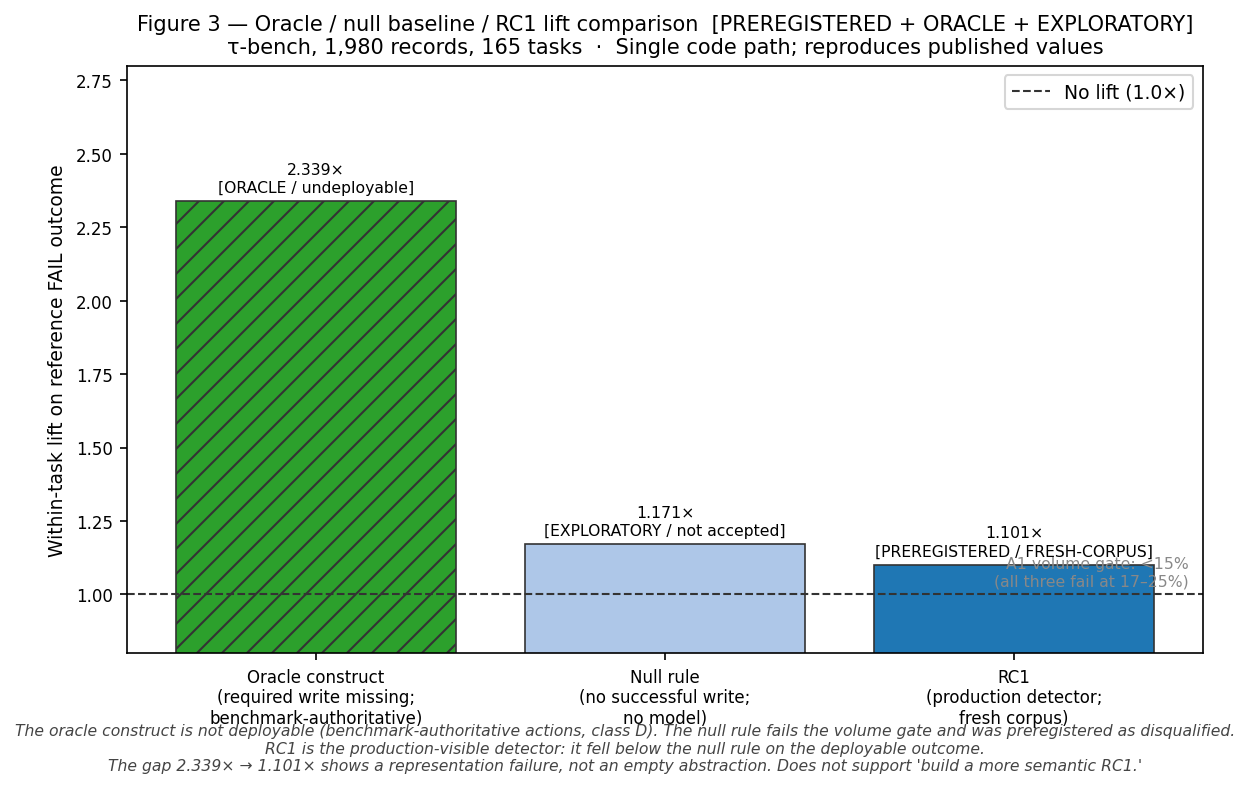
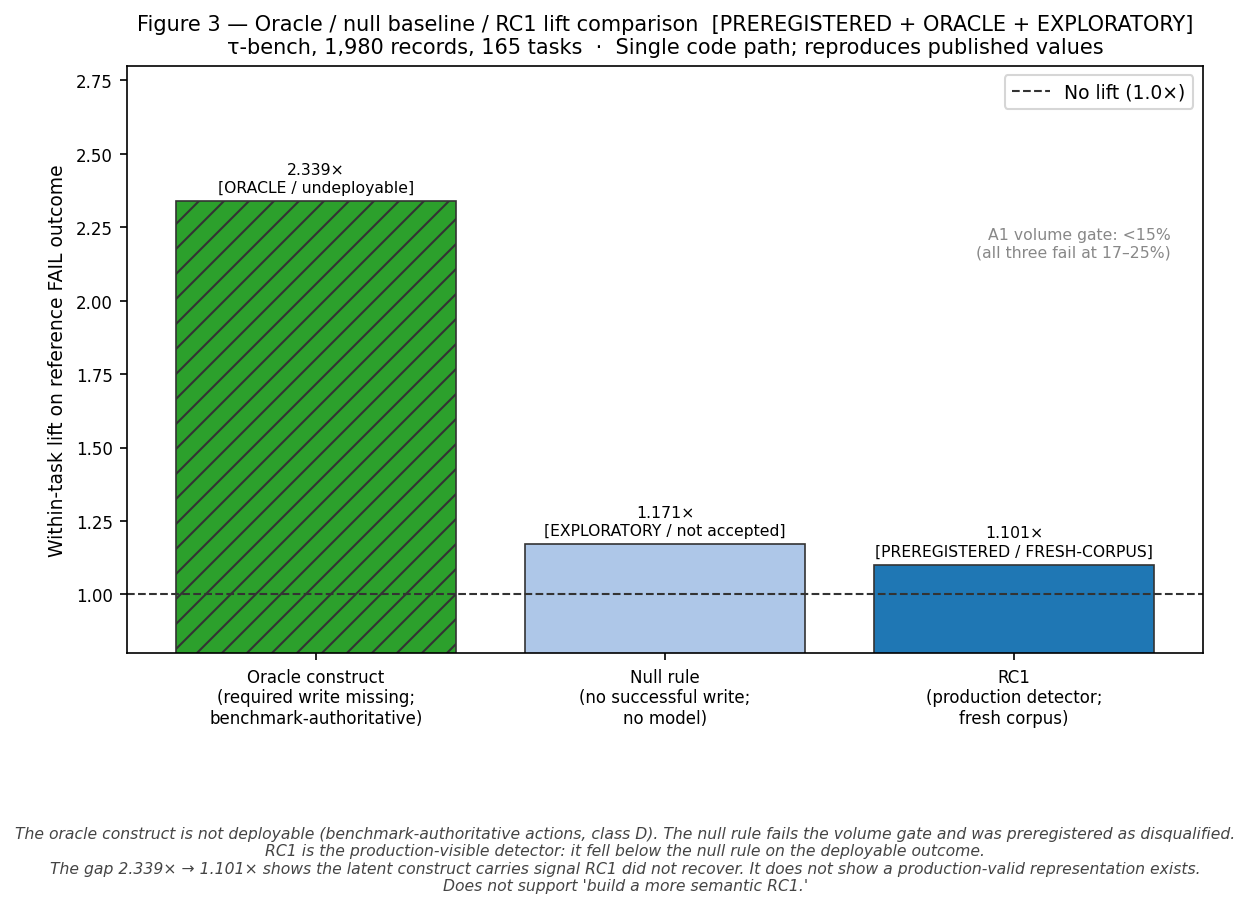
Close the rule-identity gaps, and finish a correction that stopped at prose
Two unrelated-looking fixes that have the same shape: a correction applied
where it was easy to see and left standing where it was not.

Rule identities. FINDINGS.md named R1, R2 and R4 individually while never
saying what any of them fires on, and README.md described R3's disposition
without its trigger. The R3 one matters most: its credibility rests on the
firing condition being structural and answer-independent, which is what stops
"the judge is worse on escalated cases" from being circular. Omitting the
trigger omitted the defense.

"Representation failure, not abstraction failure." Struck at canonical freeze
because it lets a reader conclude the abstraction was proven and only the
engineering was unfinished. The strike reached canonical_copy.md and the
portfolio page and stopped there. It was still live in FINDINGS.md, README.md,
rc1_final_report.md, the synthesis conclusion table, and — worst — the
synthesis's *approved wording* column, which is the phrasing a writer is told
to use. Now FORBIDDEN, so it cannot come back.

It was also baked into fig3_lift_comparison.png via a matplotlib caption,
where no text linter could ever have found it, and that image is on the public
portfolio page. Regenerating exposed two pre-existing layout collisions in the
same figure (footer over the x tick labels, gate annotation over RC1's value
label); both fixed. The other three figures reproduce byte-identically.

Changed region(s): [[0.0, 0.1523, 0.9984, 1.0], [0.0624, 0.0, 0.9672, 0.1523], [0.78, 0.2437, 0.936, 0.3046]]

diff --git a/scripts/generate_figures.py b/scripts/generate_figures.py
@@ -289,8 +289,9 @@ def fig3_lift_comparison(out_path):
     # Baseline = 1.0
     ax.axhline(1.0, color="#333333", linewidth=1.0, linestyle="--", label="No lift (1.0×)")
 
-    # Volume gate annotation
-    ax.text(2.5, 1.03, "A1 volume gate: <15%\n(all three fail at 17–25%)",
+    # Volume gate annotation. Sits in the empty upper-right quadrant: at y=1.03 it
+    # collided with RC1's multi-line value label.
+    ax.text(2.45, 2.15, "A1 volume gate: <15%\n(all three fail at 17–25%)",
             fontsize=7.5, color="#888888", ha="right")
 
     for i, (lift, evd) in enumerate(zip(lifts, evidence)):
@@ -308,12 +309,14 @@ def fig3_lift_comparison(out_path):
     )
     ax.legend(fontsize=9)
     ax.tick_params(labelsize=8)
+    # The x tick labels are three lines tall; -0.04 put this on top of them.
     fig.text(
-        0.5, -0.04,
+        0.5, -0.20,
         "The oracle construct is not deployable (benchmark-authoritative actions, class D). "
         "The null rule fails the volume gate and was preregistered as disqualified.\n"
         "RC1 is the production-visible detector: it fell below the null rule on the deployable outcome.\n"
-        "The gap 2.339× → 1.101× shows a representation failure, not an empty abstraction. "
+        "The gap 2.339× → 1.101× shows the latent construct carries signal RC1 did not recover. "
+        "It does not show a production-valid representation exists.\n"
         "Does not support 'build a more semantic RC1.'",
         ha="center", fontsize=7.5, style="italic", color="#444444"
     )

diff --git a/scripts/public_claim_ledger.py b/scripts/public_claim_ledger.py
@@ -365,6 +365,15 @@ FORBIDDEN = [
     ("semantic machinery is useless",
      "Overclaim. Oracle construct 2.339× > null 1.171×.",
      "ERROR"),
+    (r"representation failure,? not (?:an )?(?:empty )?abstraction",
+     "Struck at canonical freeze. The oracle establishes that the latent construct carries "
+     "signal; it does not establish that a production-valid representation of it exists. "
+     "The original phrasing lets a reader conclude the abstraction was proven and only the "
+     "engineering was unfinished. It was not. See docs/canonical_copy.md.",
+     "ERROR"),
+    (r"not an empty abstraction",
+     "Struck at canonical freeze. See 'representation failure, not abstraction failure'.",
+     "ERROR"),
 
     # Compressing heterogeneous dispositions to a single positive
     ("one positive result",

diff --git a/docs/research_synthesis.md b/docs/research_synthesis.md
@@ -45,7 +45,7 @@ Evidence classes: **SYN** synthetic · **EXP** exploratory · **PRE** preregiste
 | 25 | RC1 rejected (`404174f`, `226ee57`) | Did RC1 pass? | FRESH | **REJECTED.** Volume 25.3%, lift 1.165× | Both binding gates failed |
 | 26 | Join-collision discovery (`c43cdea`) | Why is there an impossible row in the harm sample? | — | **660 gpt-4o records (33.3%) scored against sonnet's rewards.** Detected by tracing one row the classifier cannot emit | Six published figures corrected; §18 harm decomposition fully replaced |
 | 27 | Forensic audit (`2d19e22`) | Which conclusions survive the corrected join? | ORA/EXP | A2-task gate **INVALID** — 81.8% of tasks hold a failing trial, capping achievable lift at 1.222× below its own 1.25× bar. F4-dominant mechanism claim withdrawn; **F6 dominant (~242 firings)**. H2 narrowed to **H2a** | Nine claims withdrawn or narrowed in one table |
-| 28 | Oracle/construct diagnostic | Is the detector bad, or the construct empty? | ORA | **Construct is real, detector is not.** Oracle volume 17.0%, within-task lift **2.339×**; RC1 recovers it at **33.1% precision / 49.3% recall**; right-for-right-reason on **118/501 = 23.6%** of firings. Even the oracle fails A1 (17.0% > 15%) | Representation failure, not abstraction failure |
+| 28 | Oracle/construct diagnostic | Is the detector bad, or the construct empty? | ORA | **Construct is real, detector is not.** Oracle volume 17.0%, within-task lift **2.339×**; RC1 recovers it at **33.1% precision / 49.3% recall**; right-for-right-reason on **118/501 = 23.6%** of firings. Even the oracle fails A1 (17.0% > 15%) | Construct carries signal; a production-valid representation of it is not established (H2a) |
 | 29 | Successor probe + null-rule comparison (today) | Is a successor warranted? | EXP | **No.** On the deployable outcome, within-task: oracle **2.339×**, null rule (no successful write, no model) **1.171×**, **RC1 1.101×**. RC1 falls below a no-model baseline. Corrective state visible in structured tool results in **12/12** harm cases | Null-baseline check added as a standing gate |
 | 30 | Correction to the probe (today, pre-publication) | Was the null-rule headline valid? | — | **No — withdrawn.** First draft claimed "null 7.189× vs construct 2.339×", comparing two different outcome variables where "no write" partly *constitutes* "a required write is missing" | Construct's 2.339× **upheld**, not narrowed; the damage lands on RC1 instead |
 | 31 | Branch closed | — | — | Stop experimenting; synthesize | This document |
@@ -517,7 +517,7 @@ planner as a research contribution.
 | C7 | A denied veto is worth logging | R1: lift 0.51×, counterfactual 6 helped / 14 harmed | A | one rule | single instance | "R1's signal inverted on held-out data (0.51× lift); the veto it had been deliberately denied would have helped 6 cases and harmed 14." | ~~"never let rules veto"~~ |
 | C8 | Evidence-gap escalation has held-out support | R3: 25.6% vs 14.4% | A | one rule, visualwebarena-only firings | 99/133 escalated were already correct; corrects nothing itself | "R3 identified a 133-case subset where the evaluator erred at 25.6% against 14.4% elsewhere; it escalates rather than corrects, and 99 of the 133 were already right." | ~~"UNVERIFIABLE states improve evaluation"~~ |
 | C9 | Static tool-class matching failed on a fresh corpus | RC1: 25.3% volume, 1.165× lift, extractor 28/30 | A/FRESH | one rule, 2 domains | 28-record reference noise floor | "On the fresh τ-bench validation, static required-conjunct/tool-class matching did not meaningfully enrich failures within tasks (1.101× within-task), while its extractor passed a label-blind audit at 28/30." | ~~"obligation tracking does not work"~~ |
-| C10 | The detector, not the construct, failed | oracle 2.339× vs RC1 1.101×, precision 33.1% / recall 49.3% | D + A | τ-bench | oracle ceiling forecasts nothing about any detector; oracle itself fails the volume gate at 17.0% | "Reconstructed with benchmark-authoritative actions, the target construct carried a 2.339× within-task lift that the production rule recovered at 33.1% precision and 49.3% recall — a representation failure, not an empty abstraction." | ~~"the construct is validated"~~ / ~~"2.339× is achievable"~~ |
+| C10 | The detector, not the construct, failed | oracle 2.339× vs RC1 1.101×, precision 33.1% / recall 49.3% | D + A | τ-bench | oracle ceiling forecasts nothing about any detector; oracle itself fails the volume gate at 17.0% | "Reconstructed with benchmark-authoritative actions, the target construct carried a 2.339× within-task lift that the production rule recovered at 33.1% precision and 49.3% recall. The oracle establishes that the latent construct carries signal; it does not establish that a production-valid representation of it exists." | ~~"the construct is validated"~~ / ~~"2.339× is achievable"~~ / ~~"representation failure, not an empty abstraction"~~ |
 | C11 | The rule fell below a no-model baseline | 1.101× vs null 1.171×, same code path | B | τ-bench | null rule itself fails volume at 24.1% and was preregistered as disqualified; partly constitutive of the outcome | "A check requiring no obligation model — 'did the agent successfully write anything?' — reached 1.171× within-task where the extraction-based rule reached 1.101×." | ~~"semantic machinery is useless"~~ / ~~"the null rule is a better detector"~~ |
 | C12 | Most judge failures originate before the judge | 10 of 15 fail earlier | E | n=15, selected | qualitative, small, not random | "In a 15-case review, only 5 failed first at the evaluator's reasoning; 5 failed at representation and 4 at specification." | ~~"most evaluator errors are data problems"~~ |
 | C13 | A join bug can survive into a published report | 660/1980 records (33.3%) mis-joined | — | one incident | self-reported | "A reward join keyed on three of four identity fields silently scored 33.3% of records against the wrong agent's outcomes; it was found by tracing a single row the classifier could not emit." | ~~"benchmark data is unreliable"~~ |

diff --git a/docs/FINDINGS.md b/docs/FINDINGS.md
@@ -114,9 +114,10 @@ non-decision-bearing and not treated as a failure gate.
 | Null rule (no successful write; no model) | 1.171× | **[EXP]** — exploratory, preregistered as disqualified |
 | RC1 (production detector) | **1.101×** | **[PRE/FRESH]** |
 
-The target construct contained real signal that RC1 failed to recover (representation
-failure, not abstraction failure). RC1 also fell below a null baseline requiring no
-obligation model. The oracle is not a forecast; the null rule fails the volume gate at
+The target construct contained real signal that RC1 failed to recover. The oracle
+establishes that the latent construct carries signal; it does not establish that a
+production-valid representation of it exists. RC1 also fell below a null baseline
+requiring no obligation model. The oracle is not a forecast; the null rule fails the volume gate at
 24.1% and was preregistered as disqualified before any computation.
 
 ![Figure 3](figures/fig3_lift_comparison.png)
@@ -136,9 +137,14 @@ below the reference-conditioned figure. Blanket FAIL adjudication non-positive f
 alternates ordered by pooled φ the same way as their own sensitivity; the a-priori
 independence argument did not predict measured correlation.
 
-**F4 — A generic deterministic pre-check architecture.** *Not supported at n=4.* R1: rejected
-(0.51× inverted signal; counterfactual veto 6 helped / 14 harmed). R4: rejected (0.6-point
-evaluator-error difference; tells you about the agent, not the evaluation).
+**F4 — A generic deterministic pre-check architecture.** *Not supported at n=4.* R1 (fires when
+the agent calls `report_infeasible` while asserting the task was completed): rejected as
+evidence against success — 0.51× lift, inverted, and 17 of 27 firings are true successes. Had
+it been given veto power it would have helped 6 and harmed 14; it never was. Its escalation
+half survives, narrowly: 33.3% evaluator error on firings against 15.2% elsewhere. R4 (fires
+when the trajectory ends on a search-results page): rejected — the 1.20× enrichment for
+reference-fail is real, but evaluator error is 16.1% on firings against 15.5% elsewhere, a
+0.6-point difference. R4 tells you about the agent, not the evaluation.
 
 **F5 — Static required-conjunct/tool-class matching.** *Rejected cross-corpus.* RC1 failed
 both binding gates on fresh τ-bench data while its extractor passed 28/30 — the rule, not
@@ -174,7 +180,7 @@ a verdict.
 | C3 | Predeclaration changed the headline | 0.543 vs 0.759 | **[PRE vs EXP]** | One corpus, 8 pairs | Post-hoc figure is oracle selection | "The predeclared pair ranked last of eight (0.543); post-hoc selection would have reported 0.759 in an identical report." |
 | C4 | Reference-conditioned recovery ≠ deployable | 0.543 vs 0.366/0.465 | **[EXP]** | One pair, one corpus | Exploratory | "P(alt correct \| primary wrong) = 0.543; operational overturn precision 0.366 / 0.465." |
 | C5 | Error directions must be separated | 32 vs 130; pooled φ 6.7×→1.6× | **[EXP]** | One corpus | Exploratory | "False alarms outnumbered missed failures 130 to 32; pooled metrics were dominated by the false-alarm stratum." |
-| C6 | Deterministic pre-checks: mixed results | R1–R4 on 1,260 held-out | **[HO]** | 4 rules, one corpus | n=4; R2 underpowered | "Two of four failed held-out evaluation; one passed but is underpowered (rule-of-three harm bound 39.3% at n=6); one passed as an escalation signal." |
+| C6 | Deterministic pre-checks: mixed results | R1–R4 on 1,260 held-out (1,259 scored) | **[HO]** | 4 rules, one corpus | n=4; R2 (negative self-report on an imperative modification goal) had 13 eligible cases and 6 verdict changes — its 39.3% harm bound is rule-of-three at n=6, not a firing count | "Two of four failed held-out evaluation; one passed but is underpowered (rule-of-three harm bound 39.3% at n=6); one passed as an escalation signal." |
 | C7 | Evidence-gap escalation has held-out support | R3: 25.6% vs 14.4% | **[HO]** | One rule | 99/133 already correct; corrects nothing | "R3 identified a 133-case subset with 25.6% evaluator error vs 14.4% elsewhere; 99 of 133 were already correct." |
 | C8 | RC1 failed fresh-corpus validation | 25.3% vol, 1.165× lift, 28/30 extractor | **[PRE/FRESH]** | One rule, two domains | 1.4% reference noise floor | "RC1 failed both binding gates on τ-bench while its extractor passed at 28/30 — rule failure, not parsing failure." |
 | C9 | The construct was not empty | Oracle 2.339× vs RC1 1.101× | **[ORA + PRE]** | τ-bench | Oracle is undeployable; oracle itself fails volume gate | "Reconstructed with benchmark-authoritative actions, the construct carried 2.339× lift; the production detector recovered it at 33.1% precision / 49.3% recall." |

diff --git a/README.md b/README.md
@@ -55,10 +55,15 @@ RC1 failed two binding preregistered gates on τ-bench (1,980 records, 165 tasks
 25.3% against a <15% ceiling; trajectory lift 1.165× against a ≥1.50× bar. The extractor
 passed its label-blind audit at 28/30. On the deployable outcome, within-task: oracle
 construct 2.339×, null rule requiring no model 1.171×, RC1 1.101×. The detector fell
-below a no-model baseline — a representation failure, not an empty abstraction.
+below a no-model baseline. The oracle establishes that the latent construct carries signal;
+it does not establish that a production-valid representation of it exists.
 
 **What survived (R3):** An explicit "required evidence is absent" state had held-out support
-as an escalation signal (25.6% vs 14.4% evaluator error on a 133-case subset). It corrects
+as an escalation signal (25.6% vs 14.4% evaluator error on a 133-case subset). R3 fires on a
+structural, answer-independent condition — the goal names an image and the evaluator's input
+contains none — and that condition was fixed before its error rate was known. That is what
+keeps the result from being circular: any rule that escalates cases a judge finds hard will
+pass a test of the form "is the judge worse on the escalated subset". It corrects
 nothing itself; 99 of 133 escalated cases were already correct. Its value depends entirely
 on review cost.
 

diff --git a/docs/rc1_final_report.md b/docs/rc1_final_report.md
@@ -456,7 +456,8 @@ escalator nothing it does not already know from that task's historical failure r
   adjustment.
 - The counterfactual veto net −31 means a veto authority would, on balance, overturn correct
   verdicts more often than it would flag incorrect ones.
-- **The failure is a representation failure, not an abstraction failure.** Measured against
+- **The construct carries signal; a production-valid representation of it is not
+  established (H2a).** Measured against
   an oracle reconstruction of the construct RC1 was written to detect — "a write-tool class
   the reference solution required was never called" — the construct carries 2.079× pooled
   lift and **2.339× within-task**, at 16.3% harm and +227 veto net. RC1 recovers that
